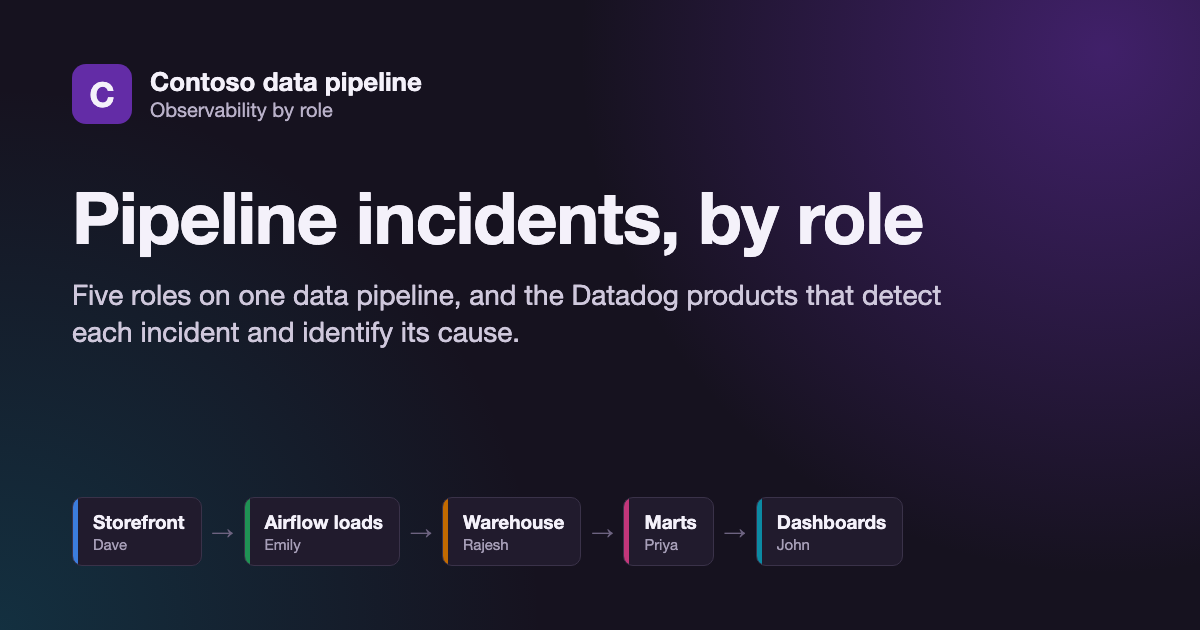
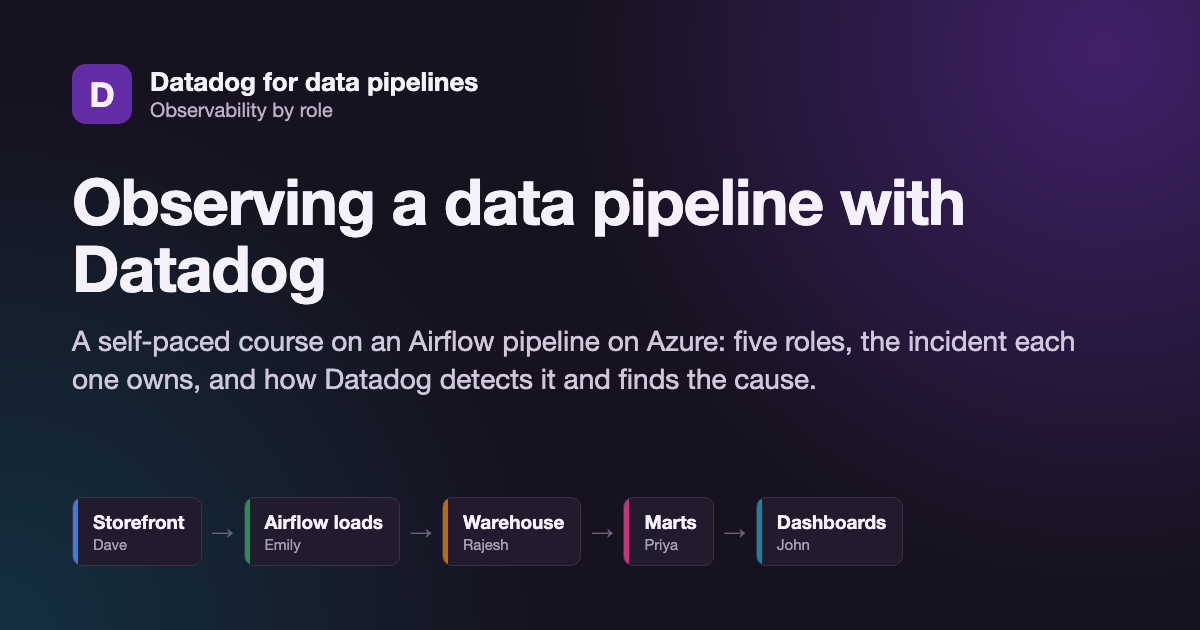
fix: name the site for what it teaches, not the fictional company
Link previews showed "Pipeline incidents, by role" and the site name "Contoso data pipeline", which mean nothing to someone who receives the link. The site is now "Datadog for data pipelines" (header, og:site_name and the title suffix), the home page and share card lead with "Observing a data pipeline with Datadog" and a one-line course description, and the brand mark and favicon change from C to D. The home page title now stands alone instead of being suffixed, and the tools page title becomes Datadog products. Contoso remains the demo company inside the lessons.

Changed region(s): [[0.0617, 0.2714, 0.8942, 0.6333], [0.1233, 0.1206, 0.4008, 0.1508], [0.0617, 0.1206, 0.0925, 0.181]]

diff --git a/site/og/og-image.html b/site/og/og-image.html
@@ -62,14 +62,14 @@
         color: #b9b1c9;
       }
       h1 {
-        margin-top: 56px;
-        font-size: 72px;
+        margin-top: 44px;
+        font-size: 64px;
         line-height: 1.05;
         letter-spacing: -1px;
       }
       .lede {
         margin-top: 20px;
-        max-width: 900px;
+        max-width: 1020px;
         font-size: 28px;
         line-height: 1.35;
         color: #cfc8dc;
@@ -105,15 +105,15 @@
   <body>
     <div class="content">
       <div class="brand">
-        <div class="mark">C</div>
+        <div class="mark">D</div>
         <div>
-          <div class="brand-name">Contoso data pipeline</div>
+          <div class="brand-name">Datadog for data pipelines</div>
           <div class="brand-sub">Observability by role</div>
         </div>
       </div>
-      <h1>Pipeline incidents, by role</h1>
+      <h1>Observing a data pipeline with Datadog</h1>
       <p class="lede">
-        Five roles on one data pipeline, and the Datadog products that detect each incident and identify its cause.
+        A self-paced course on an Airflow pipeline on Azure: five roles, the incident each one owns, and how Datadog detects it and finds the cause.
       </p>
       <div class="flow">
         <div class="step" style="--c: #3b7ddd">Storefront<small>Dave</small></div>
